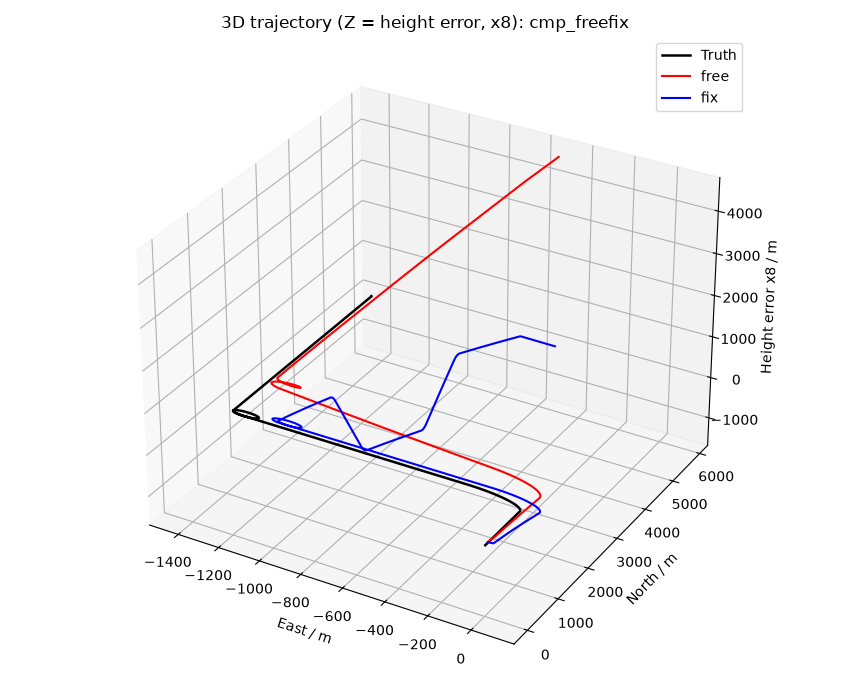
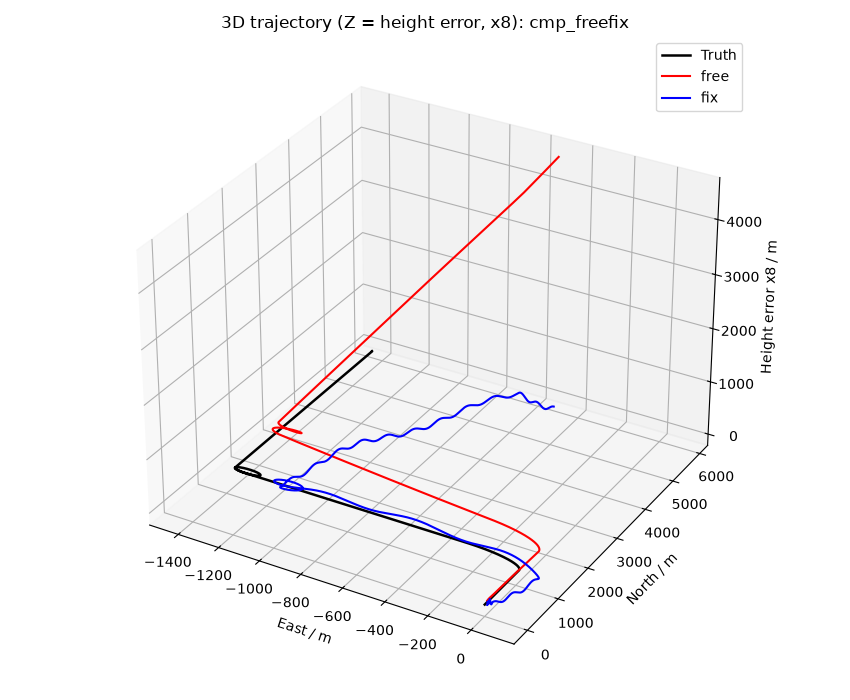
拆解PSINS P2：fix 改钉 trj.bh，对齐 PSINS 高度阻尼语义
- gen_sins.py/.m：生成气压高度参考 bh = 真值高度 + 确定性平滑气压误差；
  miniinspure 增加 bh 参数，fix_h=True 时每步 pos(3)=bh_d(ki)（下采样对齐），
  使 fix 真正跟随真值 450→655→450 m 爬升，仅残留气压噪声
- 双轨数值对拍通过（MATLAB headless 与 Python 完全一致）：
  free 末点 (-42.4,935.0,581.6) m；fix 末点 (-42.2,935.0,-2.7) m；
  fix 垂直 RMS 从旧版 77 m 降至 6.8 m（= 气压噪声）
- 重生成 fix 相关可视化（miniinsplot_fix.png / cmp_freefix.png / 3D 图）
- P2 文案更新：表格新增垂直 RMS、note 与可复现段落全部改为
  "fix 跟踪真值爬升 / 误差≈气压噪声"，删除旧"fix 兜在 10.0 m"末点巧合表述

diff --git a/docs/惯性导航/assets/gen_sins.py b/docs/惯性导航/assets/gen_sins.py
@@ -8,7 +8,7 @@
   [注入] 确定性误差：eb=0.01°/h 陀螺零偏、db=100µg 加计零偏、初始姿态误差 [0.5;0.5;5]'
   [解算] 迷你 inspure（nn=2 双子样机械编排：cnscl 圆锥/划桨 + earth + 速度/位置/姿态更新）
   [分析] 解算 vs 真值：姿态/速度/位置误差（Schuler 振荡、水平漂移、高度通道）
-高度阻尼选项：free（自由）/ fix（固定真值高度，= test_SINS 的 trj.bh 作用）
+高度阻尼选项：free（自由）/ fix（固定气压高度 trj.bh = 真值高度+气压噪声）
 教学简化（对拍 PSINS 时允许的差异）：随机游走省略（确定性）、trjsimu 无匀速阻尼。
 """
 import numpy as np
@@ -144,13 +144,14 @@ def askew(v):
     return np.array([[0, -v[2], v[1]], [v[2], 0, -v[0]], [-v[1], v[0], 0]])
 
 # ---------------- 迷你 inspure（nn=2 双子样机械编排） ----------------
-def miniinspure(imu, avp0, fix_h=False):
+def miniinspure(imu, avp0, fix_h=False, bh=None):
     nn = 2
     att, vn, pos = avp0[0:3].copy(), avp0[3:6].copy(), avp0[6:9].copy()
     qnb = a2qua(att)
     len_ = len(imu); m = len_//nn
     avp = np.zeros((m, 10)); ki = 0
     pos0 = pos.copy()
+    bh_d = None if bh is None else bh[1::2]   # 气压高度下采样（与双子样输出对齐）
     for k in range(0, len_-nn+1, nn):
         wm = imu[k:k+nn, 0:3]; vm = imu[k:k+nn, 3:6]
         nts = nn*ts; nts2 = nts/2
@@ -176,7 +177,8 @@ def miniinspure(imu, avp0, fix_h=False):
         # 姿态更新（qupdt2 等效）
         qnb = qmul(rv2q(-wnin*nts), qmul(qnb, rv2q(phim)))
         if fix_h:
-            pos[2] = pos0[2]          # 高度固定（= test_SINS 的 trj.bh 作用）
+            # 高度阻尼：钉到气压高度 trj.bh（真值高度 + 气压噪声）——跟踪真值爬升，仅残留气压误差
+            pos[2] = bh_d[ki] if bh_d is not None else pos0[2]
         att = q2att(qnb)
         avp[ki] = [*att, *vn, *pos, imu[k+1, 6]]
         ki += 1
@@ -193,6 +195,11 @@ print("\n[1] 迷你 trjsimu：966 s 轨迹生成（100 Hz，双子样增量）")
 imu, trj = minitrj(avp0, WAT, ts)
 print(f"    行数 = {len(imu)}（期望 96600），末位置 = ({trj[-1,6]/deg:.4f}°, {trj[-1,7]/deg:.4f}°, {trj[-1,8]:.1f} m)")
 
+# 真值气压高度（= PSINS trj.bh）：真值高度 + 确定性平滑气压误差（便于双轨对拍）
+t_trj = trj[:, 9]
+baro_err = 10.0*np.sin(2*np.pi*0.004*t_trj) + 5.0*np.sin(2*np.pi*0.021*t_trj)   # m
+bh = trj[:, 8] + baro_err                      # 气压高度参考源
+
 print("\n[2] 确定性误差注入（eb=0.01°/h, db=100µg, att err [0.5;0.5;5]', vn 0.1, pos 10m）")
 eb = np.array([0.01, 0.01, 0.01])*dph
 db = np.array([100., 100., 100.])*ug
@@ -203,8 +210,8 @@ att0e = avp0[0:3] + np.array([0.5, 0.5, 5.0])*(deg/60)
 avp0e = np.array([*att0e, 0.1, 0.1, 0.1, avp0[6]+10/Re, avp0[7]+10/(Re*np.cos(avp0[6])), avp0[8]+10])
 
 print("\n[3] 迷你 inspure（nn=2 双子样机械编排）")
-avp_free = miniinspure(imu_e, avp0e, fix_h=False)
-avp_fix  = miniinspure(imu_e, avp0e, fix_h=True)
+avp_free = miniinspure(imu_e, avp0e, fix_h=False, bh=bh)
+avp_fix  = miniinspure(imu_e, avp0e, fix_h=True,  bh=bh)
 Re_h = Re + avp0[8]
 def pos_err_m(dp):
     return np.array([dp[0]*Re_h, dp[1]*Re_h*np.cos(avp0[6]), dp[2]])

diff --git a/docs/惯性导航/assets/gen_sins.m b/docs/惯性导航/assets/gen_sins.m
@@ -6,7 +6,7 @@ function gen_sins()
 %   [注入] 确定性误差：eb=0.01°/h 陀螺零偏、db=100µg 加计零偏、初始姿态误差 [0.5;0.5;5]'
 %   [解算] 迷你 inspure（nn=2 双子样机械编排：cnscl 圆锥/划桨 + earth + 速度/位置/姿态更新）
 %   [分析] 解算 vs 真值：姿态/速度/位置误差（Schuler 振荡、水平漂移、高度通道）
-% 高度阻尼选项：free（自由）/ fix（固定真值高度，= test_SINS 的 trj.bh 作用）
+% 高度阻尼选项：free（自由）/ fix（固定气压高度 trj.bh = 真值高度+气压噪声）
 % 教学简化（对拍 PSINS 时允许的差异）：随机游走省略（确定性）、trjsimu 无匀速阻尼。
 % 无工具箱依赖，运行：gen_sins
 
@@ -52,6 +52,11 @@ fprintf('\n[1] 迷你 trjsimu：966 s 轨迹生成（100 Hz，双子样增量）
 fprintf('    行数 = %d（期望 96600），末位置 = (%.4f°, %.4f°, %.1f m)\n', ...
         size(imu,1), trj(end,7)/deg, trj(end,8)/deg, trj(end,9));
 
+% 真值气压高度（= PSINS trj.bh）：真值高度 + 确定性平滑气压误差（便于双轨对拍）
+t_trj = trj(:,10);
+baro_err = 10.0*sin(2*pi*0.004*t_trj) + 5.0*sin(2*pi*0.021*t_trj);   % m
+bh = trj(:,9) + baro_err;                       % 气压高度参考源
+
 fprintf('\n[2] 确定性误差注入（eb=0.01°/h, db=100µg, att err [0.5;0.5;5]'', vn 0.1, pos 10m）\n');
 eb = [0.01;0.01;0.01]*dph;
 db = [100.;100.;100.]*ug;
@@ -62,8 +67,8 @@ att0e = avp0(1:3) + ([0.5;0.5;5.0]*(deg/60));
 avp0e = [att0e; 0.1;0.1;0.1; avp0(7)+10/Re; avp0(8)+10/(Re*cos(avp0(7))); avp0(9)+10];
 
 fprintf('\n[3] 迷你 inspure（nn=2 双子样机械编排）\n');
-avp_free = miniinspure(imu_e, avp0e, false);
-avp_fix  = miniinspure(imu_e, avp0e, true);
+avp_free = miniinspure(imu_e, avp0e, false, bh);
+avp_fix  = miniinspure(imu_e, avp0e, true,  bh);
 Re_h = Re + avp0(9);
 pe = pos_err_m(avp_free(end,7:9)-trj(end,7:9), avp0, Re_h);
 pf = pos_err_m(avp_fix(end,7:9)-trj(end,7:9),  avp0, Re_h);
@@ -205,12 +210,15 @@ function [imu, avp] = minitrj(avp0, wat, ts)
 end
 
 % ---------------- 迷你 inspure（nn=2 双子样机械编排） ----------------
-function avp = miniinspure(imu, avp0, fix_h)
+function avp = miniinspure(imu, avp0, fix_h, bh)
+    if nargin < 4, bh = []; end
     nn = 2; ts = 0.01;
     att = avp0(1:3); vn = avp0(4:6); pos = avp0(7:9);
     qnb = a2qua(att); pos0 = pos;
     len_ = size(imu,1); m = floor(len_/nn);
     avp = zeros(m, 10); ki = 0;
+    bh_d = [];
+    if ~isempty(bh), bh_d = bh(2:2:end); end
     for k = 1:nn:len_-nn+1
         wm = imu(k:k+1, 1:3);  vm = imu(k:k+1, 4:6);
         nts = nn*ts;  nts2 = nts/2;
@@ -232,7 +240,10 @@ function avp = miniinspure(imu, avp0, fix_h)
         vn = vn1;
         % 姿态更新（qupdt2 等效）
         qnb = qmul(rv2q(-wnin*nts), qmul(qnb, rv2q(phim)));
-        if fix_h, pos(3) = pos0(3); end
+        if fix_h
+            % 高度阻尼：钉到气压高度 trj.bh（真值高度 + 气压噪声）——跟踪真值爬升，仅残留气压误差
+            if ~isempty(bh_d), pos(3) = bh_d(ki+1); else pos(3) = pos0(3); end
+        end
         att = q2att(qnb);
         avp(ki+1,:) = [att; vn; pos; imu(k+1,7)]';
         ki = ki+1;
